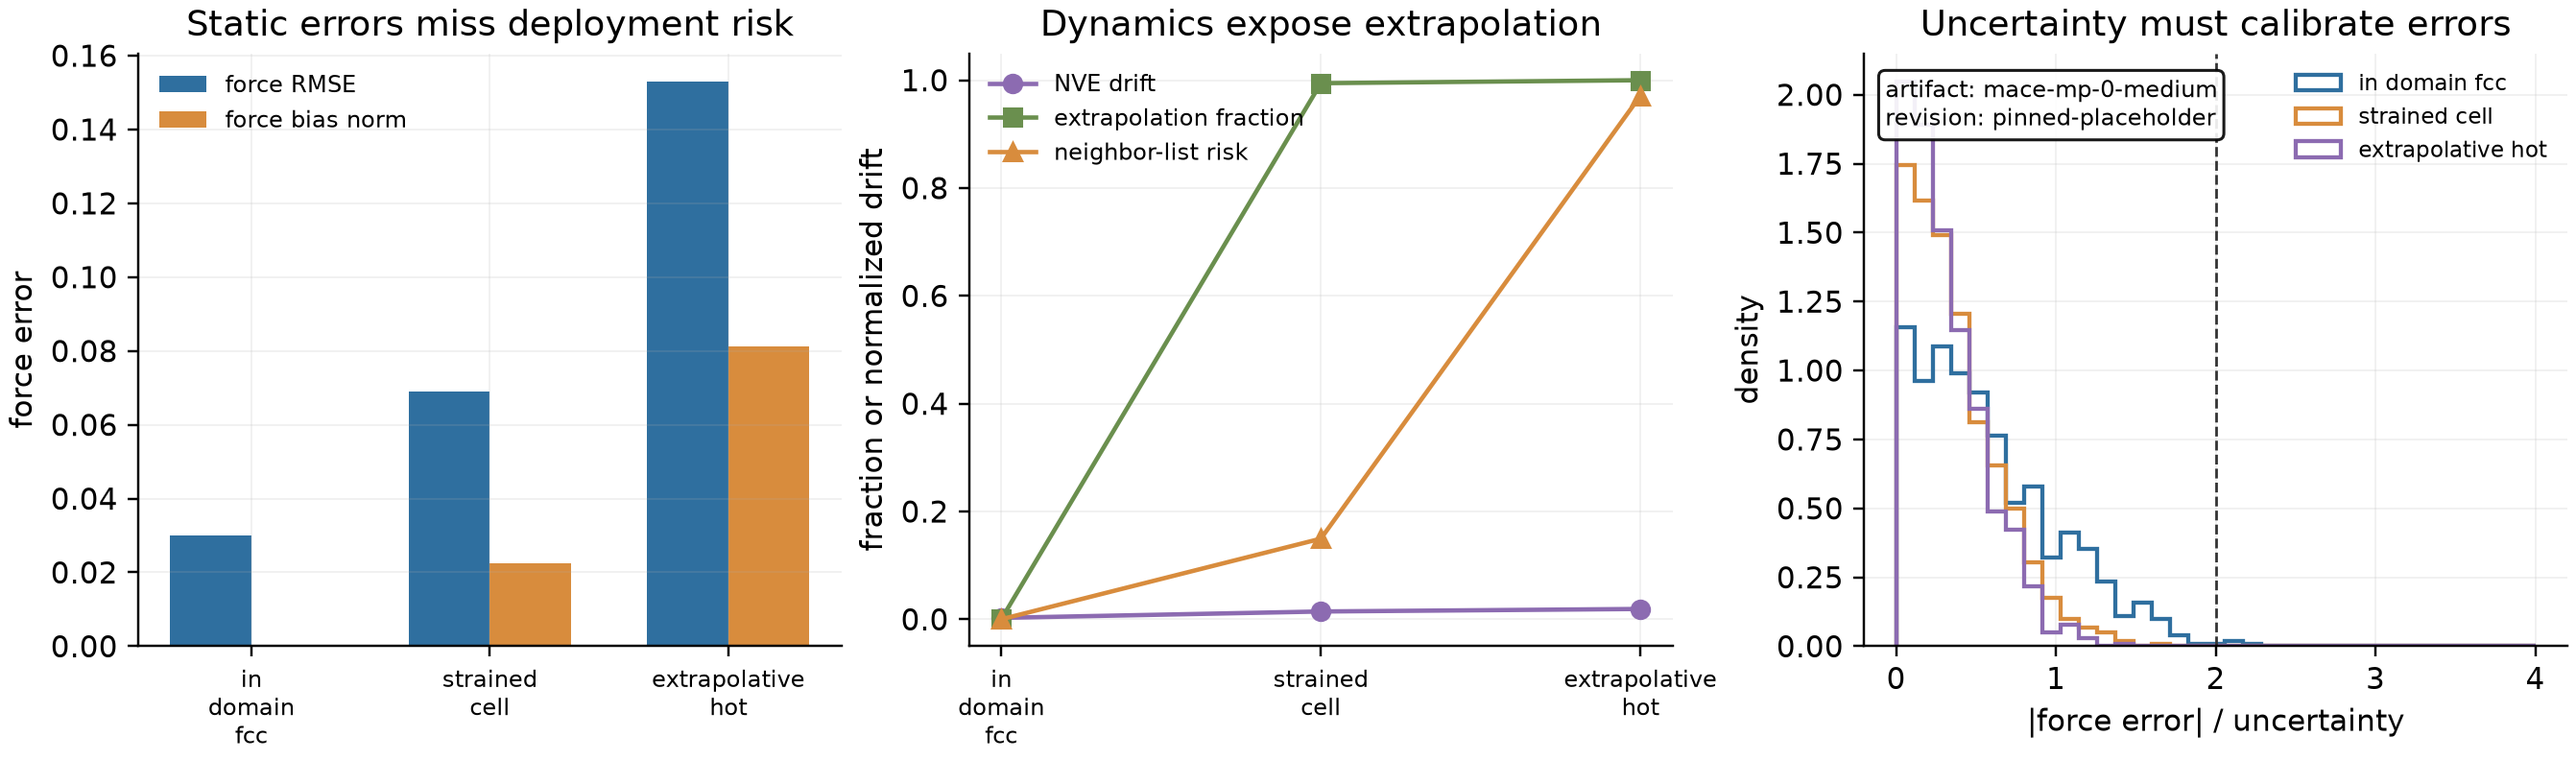
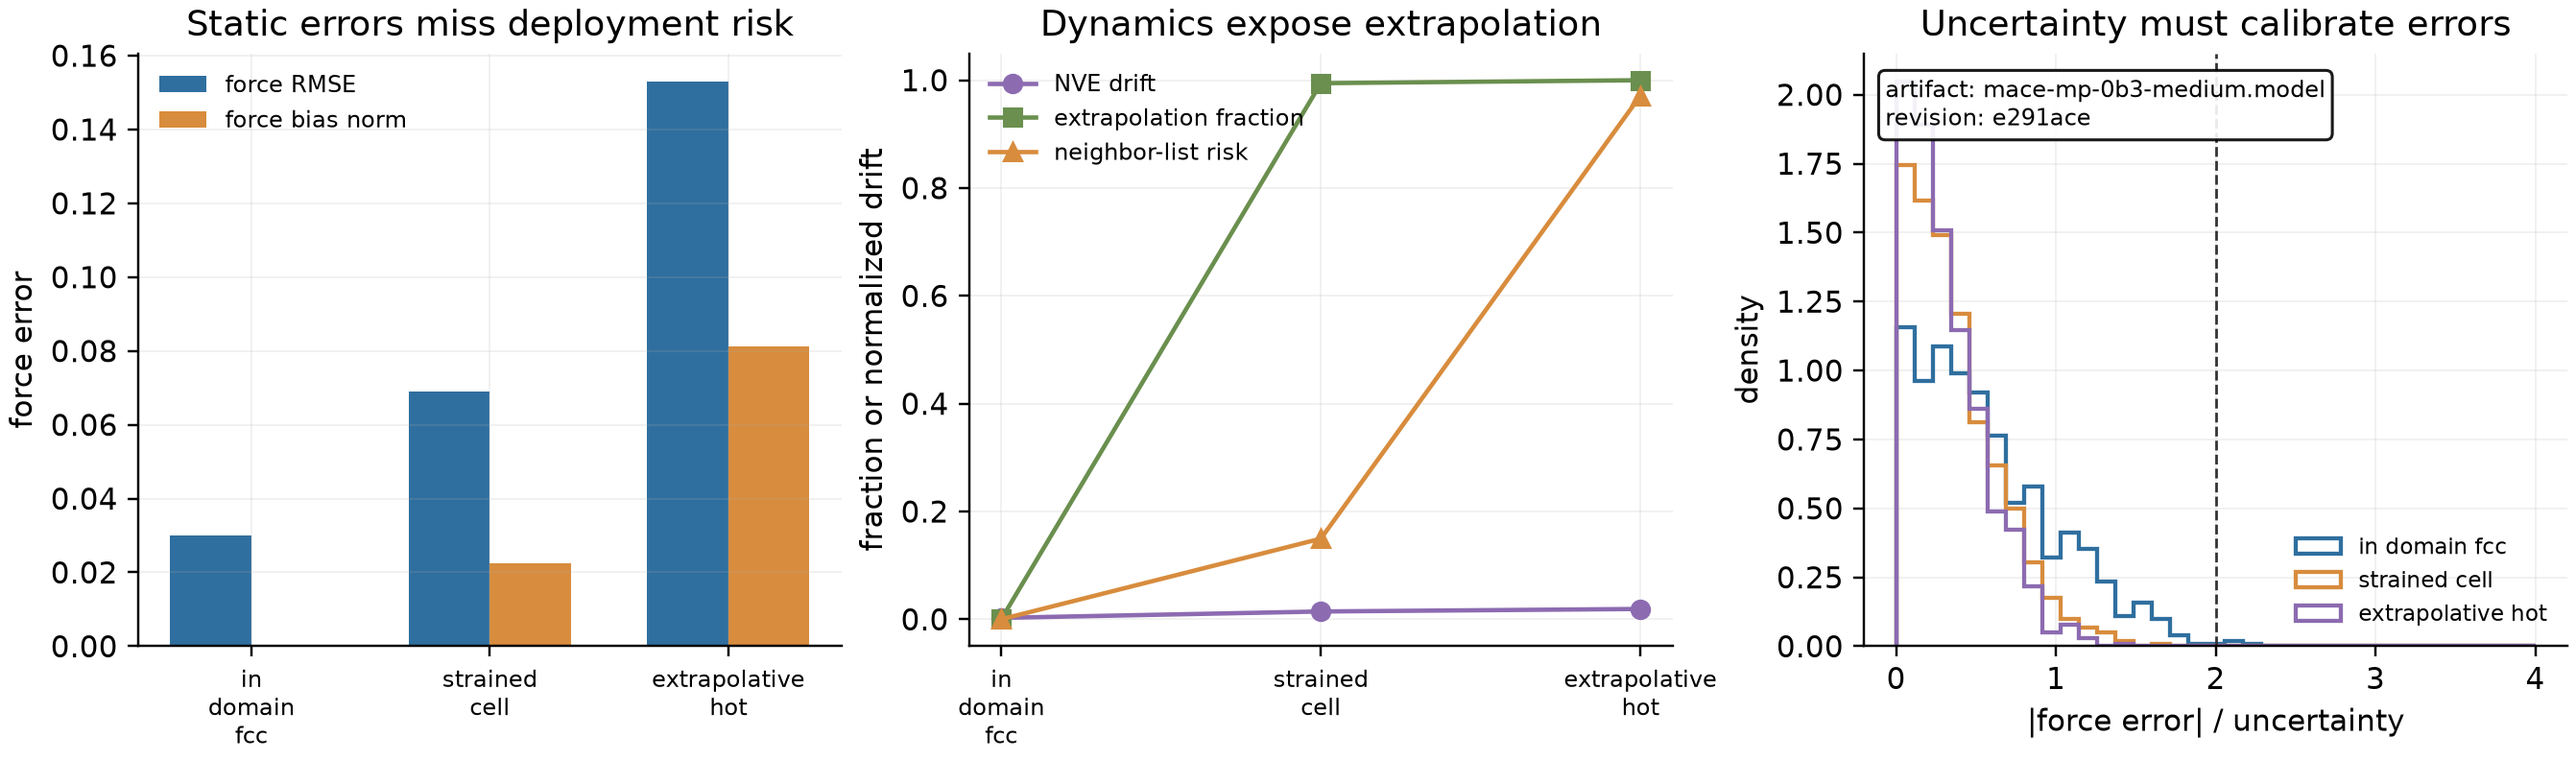
docs: refresh post 12 pinned artifact draft

Changed region(s): [[0.7731, 0.0909, 0.9896, 0.2121], [0.8659, 0.697, 0.9896, 0.8182]]

diff --git a/_pages/kups-md-post-12-mlip-capstone.md b/_pages/kups-md-post-12-mlip-capstone.md
@@ -3,7 +3,7 @@ layout: post
 permalink: /kups-md-tutorials/post-12-mlip-capstone/
 title: "What Changes When the Potential Is a Machine-Learned Interatomic Potential?"
 date: 2026-07-14
-last_updated: 2026-07-14
+last_updated: 2026-07-15
 description: "A reproducible MLIP reliability diagnostic for fcc aluminum: static force error, extrapolation, drift, uncertainty calibration, and artifact provenance."
 post_type: tutorial
 authors: ["Sungsoo Ahn"]
@@ -21,7 +21,7 @@ nav: false
 ---
 
 <p style="color: #666; font-size: 0.9em; margin-bottom: 1.5em;">
-<em>Note: This is an early draft page for the executable kUPS MD tutorial series. It is intentionally hidden from site navigation while the simulations, notebooks, figures, and review artifacts mature. This post closes the series by asking what changes when the potential is a machine-learned interatomic potential rather than a fixed analytic or classical model. The current diagnostic is a deterministic surrogate for MLIP reliability checks; the final public article must replace the placeholder MACE artifact metadata with a verified model hash from the GPU production pass. Corrections and replication issues should be tracked in <a href="https://github.com/sungsoo-ahn/kups-md-tutorials">sungsoo-ahn/kups-md-tutorials</a>.</em>
+<em>Note: This is an early draft page for the executable kUPS MD tutorial series. It is intentionally hidden from site navigation while the simulations, notebooks, figures, and review artifacts mature. This post closes the series by asking what changes when the potential is a machine-learned interatomic potential rather than a fixed analytic or classical model. The current numerical diagnostic is a deterministic CPU surrogate for MLIP reliability checks; the MACE artifact metadata is now pinned and hash-verified, but the final public article still needs a real GPU production pass. Corrections and replication issues should be tracked in <a href="https://github.com/sungsoo-ahn/kups-md-tutorials">sungsoo-ahn/kups-md-tutorials</a>.</em>
 </p>
 
 ## Introduction
@@ -46,8 +46,9 @@ id="cite-behler2007"></span>[Behler & Parrinello, 2007](#ref-behler2007);
 
 This draft demonstrates the executable slice of the twelfth tutorial with
 three fcc-Al reliability regimes. The configured model artifact is recorded as
-`mace-mp-0-medium` from `ACEsuit/mace`, but the revision and hash are
-placeholders until the final GPU artifact pass.
+`mace-mp-0b3-medium.model` from `mace-foundations/mace-mp-0`, pinned at
+revision `e291ace`, with SHA-256
[1 lines of base64/hex data omitted]
 
 The target reader already knows how MLIPs are trained and evaluated on static
 structures. The capstone question is different: what evidence is needed before
@@ -59,8 +60,8 @@ provenance.
 This page keeps that chain visible. The current numbers are deterministic
 surrogate diagnostics, not final MACE/fcc-Al production results. That
 limitation is intentional in the hidden draft. It lets the page describe the
-review protocol before the final GPU pass replaces placeholder model metadata
-with a pinned artifact hash and real production diagnostics.
+review protocol before the final GPU pass replaces the surrogate numerical
+diagnostic with real production trajectories.
 
 - [smoke configuration](https://github.com/sungsoo-ahn/kups-md-tutorials/blob/main/configs/post-12/smoke.json)
 - [full configuration](https://github.com/sungsoo-ahn/kups-md-tutorials/blob/main/configs/post-12/full.json)
@@ -289,10 +290,11 @@ For an MLIP, a name is not enough. The artifact, repository revision, training
 or release identifier, downloaded file hash, model settings, neighbor/cutoff
 settings, precision, device, and software versions all affect reproducibility.
 
-The current page deliberately says that `mace-mp-0-medium` from `ACEsuit/mace`
-has placeholder revision and hash metadata. That is not acceptable for a final
-public capstone. It is acceptable for the hidden draft only because the review
-calls it out as a final-release blocker.
+The current page pins `mace-mp-0b3-medium.model` from
+`mace-foundations/mace-mp-0` at revision `e291ace` and records the downloaded
+file's SHA-256 hash. That fixes model-file provenance for this hidden draft,
+but it does not turn the surrogate numerical diagnostic into a production
+MACE/fcc-Al result.
 
 The final GPU pass should freeze:
 
@@ -325,9 +327,9 @@ does not look dramatic. The uncertainty panel asks whether uncertainty grows
 with realized error.
 
 The artifact annotation is also part of the figure review. It exposes the
-placeholder revision and hash so the hidden draft cannot be mistaken for a
-completed MACE production result. In the final article, that annotation should
-be replaced by the pinned revision and verified hash from the GPU pass.
+pinned model file and repository revision so the hidden draft carries exact
+artifact provenance even though the plotted numerical diagnostics are still a
+controlled surrogate rather than a completed MACE production result.
 
 The intended reader should leave the figure with one habit: never review an
 MLIP trajectory from a single metric. Static error, drift, extrapolation,
@@ -338,8 +340,8 @@ credible MD claim needs the relevant subset of those answers.
 
 The final capstone should replace the deterministic surrogate with a real
 MACE/fcc-Al production run. The controlled workflow should remain as a smoke
-and review harness, but the public scientific claims should be based on the
-verified model artifact and GPU outputs.
+and review harness, but the public scientific claims should be based on GPU
+outputs from the verified model artifact.
 
 The production pass should include:
 
@@ -434,6 +436,7 @@ configuration loader, MLIP capstone diagnostics, and figure generator from
 This page is not the final article. The implemented pieces are:
 
 - smoke and full controlled MLIP reliability workflows
+- pinned `mace-mp-0b3-medium.model` artifact metadata with verified SHA-256
 - committed compact summaries and diagnostic samples
 - executable notebook
 - generated SVG/PNG figure and snapshot review
@@ -442,7 +445,6 @@ This page is not the final article. The implemented pieces are:
 The missing pieces are:
 
 - real MACE/fcc-Al GPU production run
-- verified MACE artifact revision and hash
 - final 3,500-10,000-word article prose
 - rendered desktop and mobile page snapshots
 - final citation pass
